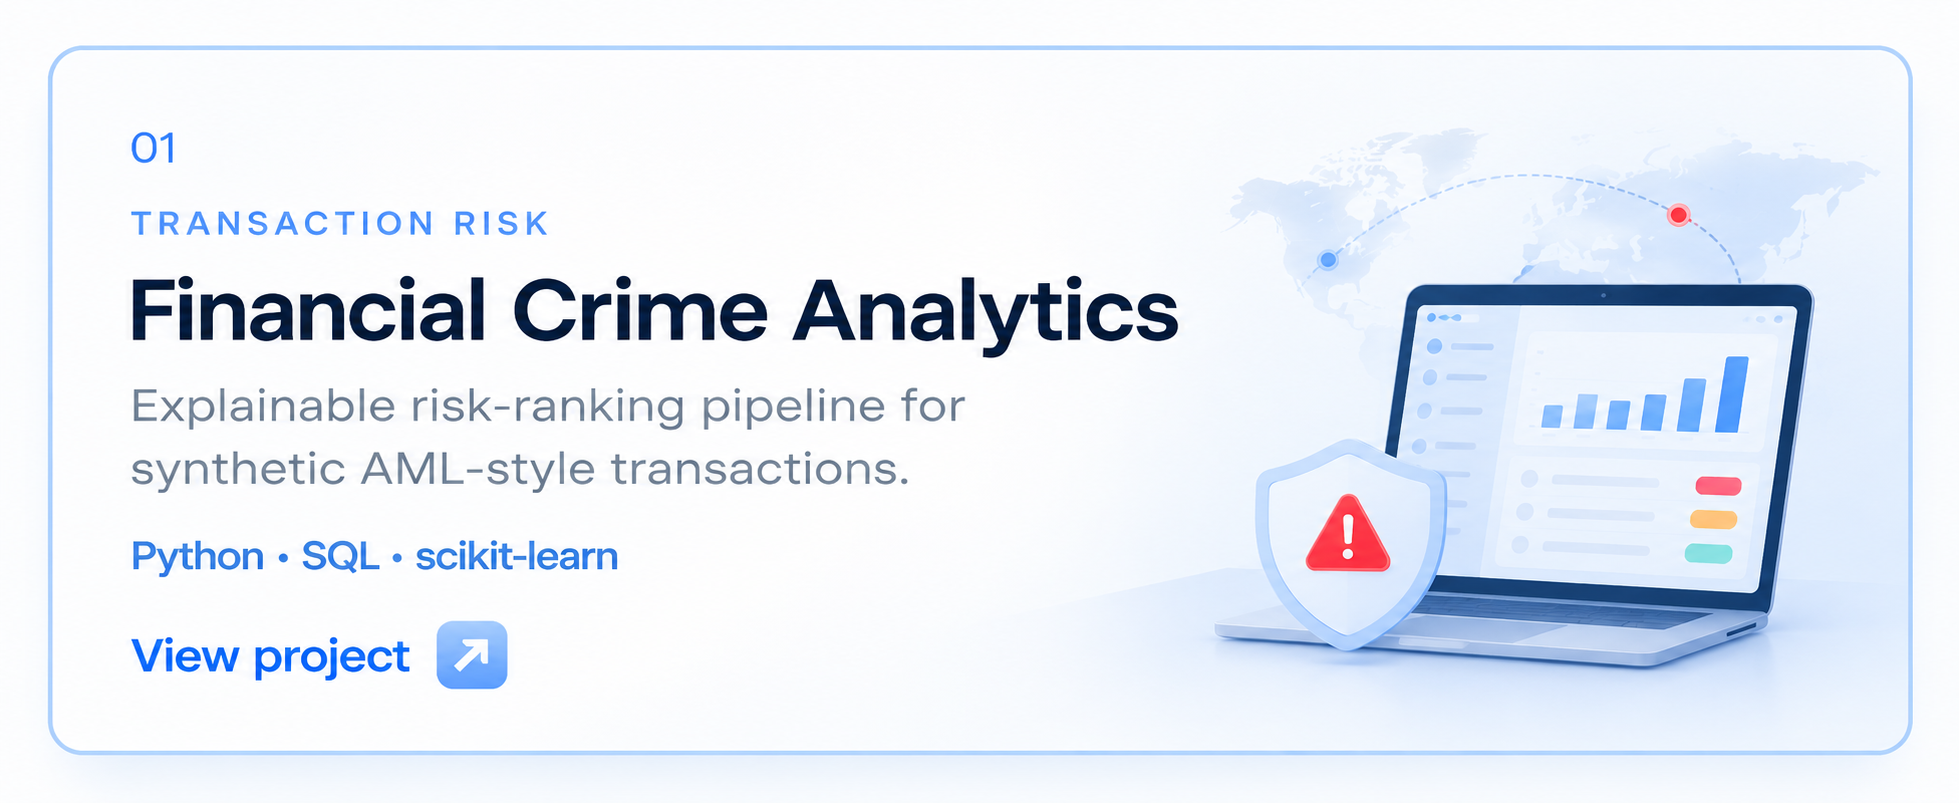
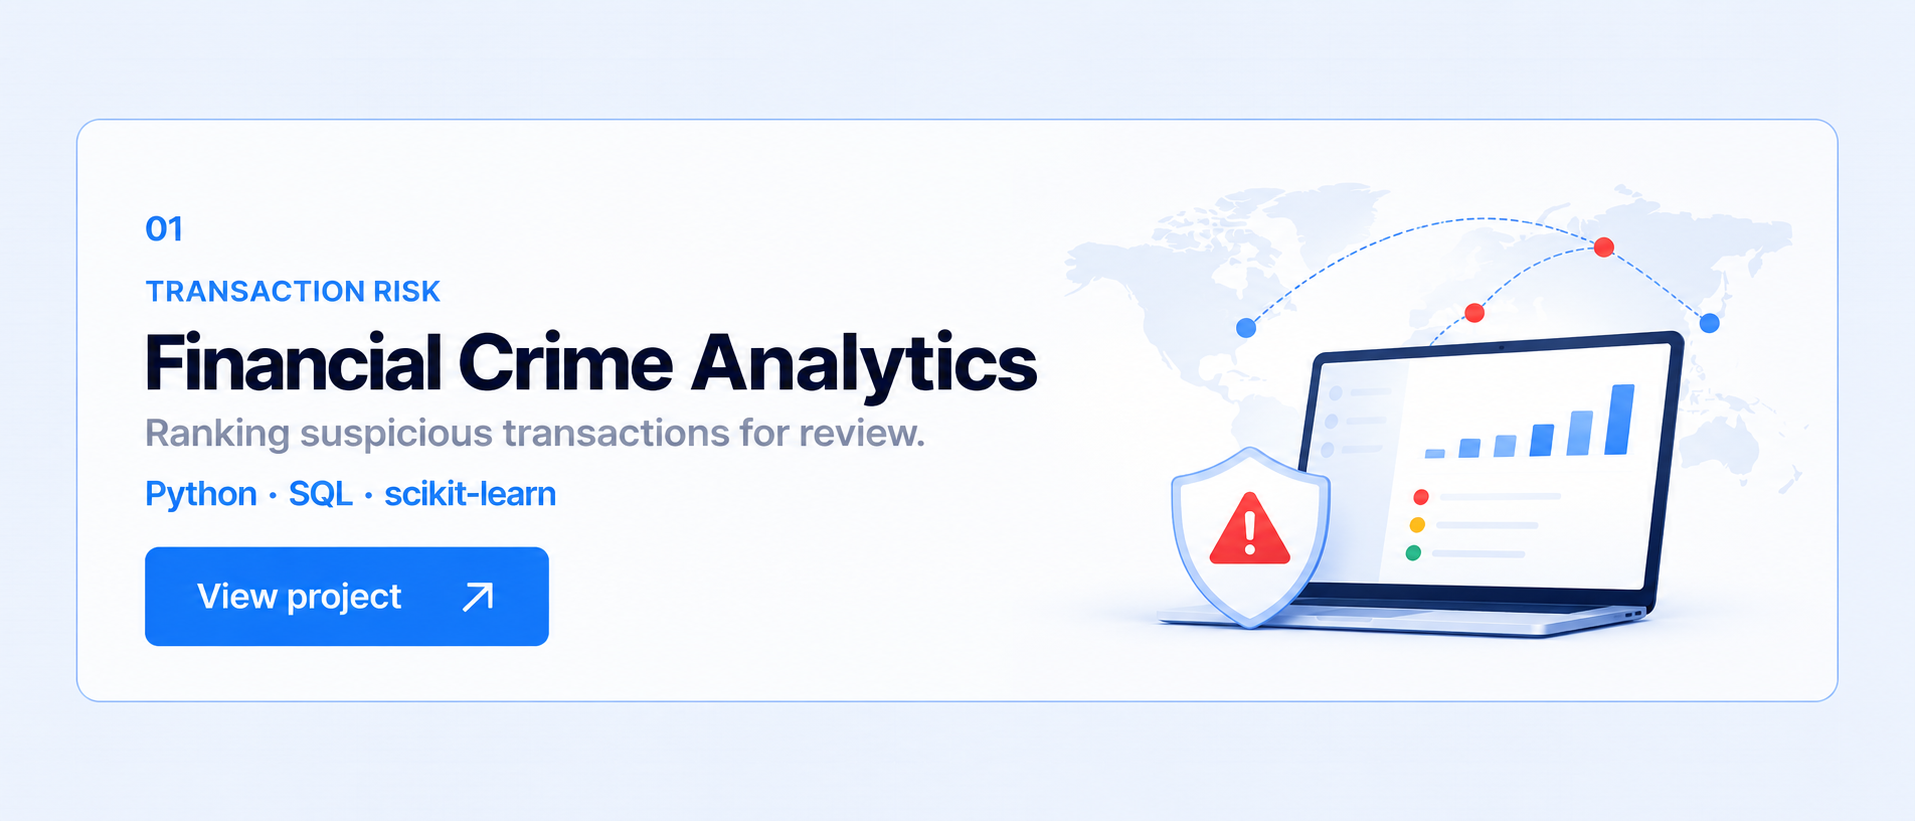
Update Financial Crime project image

diff --git a/index.html b/index.html
@@ -50,7 +50,7 @@
         <a class="link" href="mailto:tansari7@uwo.ca"><span class="icon email" aria-hidden="true">@</span><span class="link-copy">Email me<small>tansari7@uwo.ca</small></span><span class="arrow" aria-hidden="true">↗</span></a>
       </div></section>
       <section class="work-section" aria-labelledby="work"><div class="work-header"><h2 class="section-title" id="work">Selected work</h2></div><div class="projects">
-        <a class="project image-button" href="https://github.com/Tansari2004/financial-crime-analytics" target="_blank" rel="noopener noreferrer"><img src="financial-crime-button.png" alt="View Financial Crime Analytics project: risk ranking for synthetic AML-style transactions using Python, SQL and scikit-learn" width="1959" height="803" loading="lazy" decoding="async"></a>
+        <a class="project image-button" href="https://github.com/Tansari2004/financial-crime-analytics" target="_blank" rel="noopener noreferrer"><img src="financial-crime-button.png" alt="View Financial Crime Analytics project: risk ranking for synthetic AML-style transactions using Python, SQL and scikit-learn" width="1915" height="821" loading="lazy" decoding="async"></a>
         <a class="project image-button" href="https://github.com/Tansari2004/predictive-maintenance-classifier" target="_blank" rel="noopener noreferrer"><img src="predictive-maintenance-button.png" alt="View Predictive Maintenance project: failure prediction on 10,000 AI4I records using Python and scikit-learn" width="1958" height="803" loading="lazy" decoding="async"></a>
         <a class="project image-button" href="https://diacare.health" target="_blank" rel="noopener noreferrer"><img src="diacare-button.png" alt="Visit the DiaCare app website" width="1956" height="804" loading="lazy" decoding="async"></a>
         <a class="project image-button" href="https://github.com/Tansari2004/diacare-nlp" target="_blank" rel="noopener noreferrer"><img src="diacare-nlp-button.png" alt="View DiaCare NLP Triage project" width="1958" height="803" loading="lazy" decoding="async"></a>
